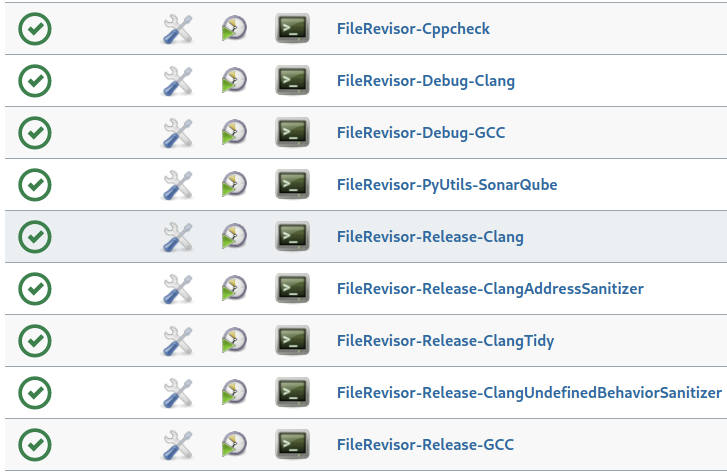
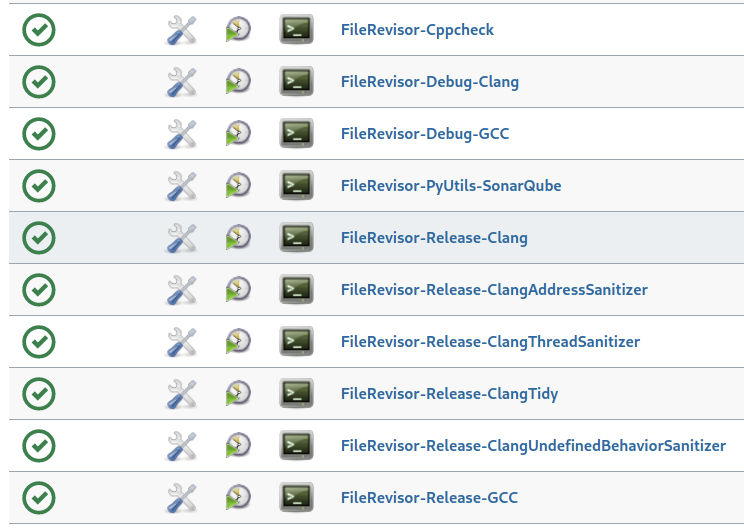
Update Linux Jenkins jobs screenshot

Changed region(s): [[0.0, 0.0, 1.0, 1.0]]

diff --git a/README.md b/README.md
@@ -26,7 +26,7 @@ FileRevisor is rigorously unit tested with <a href="https://github.com/NeilJusti
 * [Windows Folder Deletion Performance: CMD vs. Git Bash vs. PowerShell vs. FileRevisor delete-directory --parallel](#windows-folder-deletion-performance-cmd-vs-git-bash-vs-powershell-vs-filerevisor-delete-directory---parallel)
 * [FileRevisor Code Structure As It Appears In Visual Studio Code On Linux](#filerevisor-code-structure-as-it-appears-in-visual-studio-code-on-linux)
 * [FileRevisor Code Structure As It Appears In Visual Studio 2019 On Windows](#filerevisor-code-structure-as-it-appears-in-visual-studio-2019-on-windows)
-* [Linux Jenkins Jobs Which Build, Cppcheck, clang-tidy, AddressSanitize, and UndefinedBehaviorSanitize FileRevisor](#linux-jenkins-jobs-which-build-cppcheck-clang-tidy-addresssanitize-and-undefinedbehaviorsanitize-filerevisor)
+* [Linux Jenkins Jobs Which Build, Cppcheck, clang-tidy, AddressSanitize, UndefinedBehaviorSanitize, and ThreadSanitize FileRevisor](#linux-jenkins-jobs-which-build-cppcheck-clang-tidy-addresssanitize-undefinedbehaviorsanitize-and-threadsanitize-filerevisor)
 * [Windows Jenkins Jobs Which Build And Cppcheck FileRevisor](#windows-jenkins-jobs-which-build-and-cppcheck-filerevisor)
 * [How To Build Binary filerevisor On Linux With Clang](#how-to-build-binary-filerevisor-on-linux-with-clang)
 * [How To Build Executable FileRevisor.exe On Windows With Visual Studio 2019](#how-to-build-filerevisorexe-on-windows-with-visual-studio-2019)
@@ -165,7 +165,7 @@ Shown in this screenshot is `class FileRevisorSubProgramFactory`:
 
 ![FileRevisor Code Structure As It Appears In Visual Studio 2019 On Windows](Screenshots/Windows/VisualStudio2019.png)
 
-### Linux Jenkins Jobs Which Build, Cppcheck, clang-tidy, AddressSanitize, and UndefinedBehaviorSanitize FileRevisor
+### Linux Jenkins Jobs Which Build, Cppcheck, clang-tidy, AddressSanitize, UndefinedBehaviorSanitize, and ThreadSanitize FileRevisor
 
 A Jenkins Blue Ocean build pipeline builds the following FileRevisor Jenkins jobs on Fedora 33 with Clang 11.0.0 and GCC 10.2.1:
 
